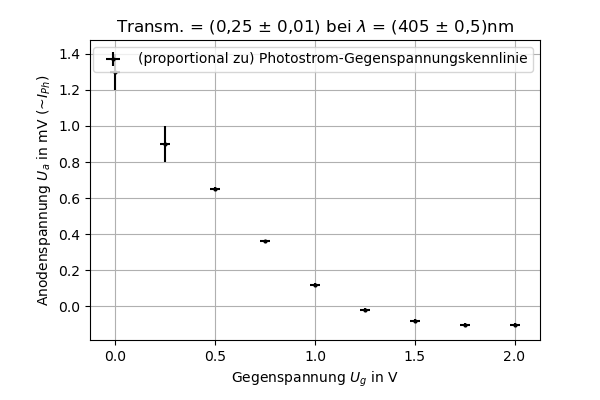
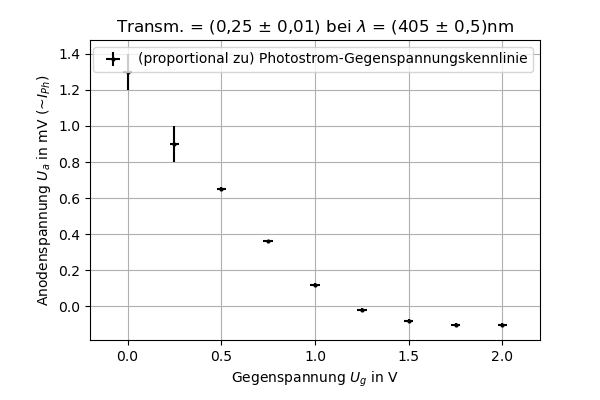
A1b

diff --git a/AP (Python)/AP3/A1b_A2,3_1.py b/AP (Python)/AP3/A1b_A2,3_1.py
@@ -3,8 +3,8 @@
 """ Bibliotheken importieren """
 import numpy as np
 from matplotlib import pyplot as plt
-# from scipy.optimize import curve_fit
-# from sympy import *
+from scipy.optimize import curve_fit
+import sympy as sp
 
 """ Daten auslesen """
 countFiles = 2
@@ -36,22 +36,6 @@ for i in range(countFiles):
         y_data.append(beamData[i][:,j])
         yerr.append(beamData[i][:,j+4])
 
-""" Regressionskurve """
-# def fitCurve(x, A, B):
-#     return A * np.asarray(x) + B
-
-# pFit, pCov = curve_fit(fitCurve, x_dataPos1, y_dataPos1, p0=[-1,4])
-# plt.plot(x_dataPos1, fitCurve(x_dataPos1, *pFit), label="Fitkurve durch kleinste Quadrate", color="Orange",linewidth=3)
-# perr = np.sqrt(np.diag(pCov))
-# print(perr)
-
-""" Regressionsfunktion """
-# x = Symbol('x')
-# A = pFit[0].round(4)
-# B = pFit[1].round(4)
-# fitCurve1 = A * x + B
-# print(fitCurve1)
-
 """ Plotten """
 fig = []
 ax = []
@@ -63,7 +47,9 @@ for i in range(len(y_data)):
     ax[i].grid(True)
     ax[i].set_xlabel("Gegenspannung $U_g$ in V")
     ax[i].set_ylabel("Anodenspannung $U_a$ in mV (~$I_{Ph}$)")
-    #ax[i].axis([2,8,4.5,7.6])
+    # ax[i].axis([0,1,2,3])
+    ax[i].set(xlim=(-0.2,2.2))
+    # ax[i].set(ylim=(-0.2,2.2))
    
 lambdas = [405,436,546,578]  
 for i in range(4):
@@ -72,6 +58,45 @@ for i in range(4):
 transms = ["0,05","0,1","0,25","0,5"]
 for i in range(4,8):
     ax[i].set_title("Transm. = (%s $\pm$ 0,01) bei $\lambda$ = (405 $\pm$ 0,5)nm"%transms[i-4])
+    
+""" Regressionskurve """
+lim = [6,5,3,3]
+x_data_limited = []
+for i in range(4):
+    x_data_limited.append(x_data[0][:lim[i]])
+y_data_limited = []
+for i in range(4):
+    y_data_limited.append(y_data[i][:lim[i]])
+    
+x_data_unlimited = np.arange(-1,3,0.01)
 
+def fitCurve(x, A, B):
+    return A * np.asarray(x) + B
+
+perr = []
+fitRes = []
+for i in range(4):
+    fitRes.append(curve_fit(fitCurve, x_data_limited[i], y_data_limited[i], p0=[-1,4]))
+    pFit = fitRes[i][0]
+    pCov = fitRes[i][1]
+    ax[i].plot(x_data_unlimited, fitCurve(x_data_unlimited, *pFit), label="Fitkurve durch kleinste Quadrate",linewidth=2)
+    ax[i].legend()
+    perr.append(np.sqrt(np.diag(pCov)))
+    print("Fitfehler",i+1,perr[i])
+
+""" Regressionsfunktion """
+x = sp.symbols('x')
+for i in range(4):
+    A = fitRes[i][0][0].round(4)
+    B = fitRes[i][0][1].round(4)
+    fitCurve = A * x + B
+    print("Regressionskurve %s: %s"%(i+1,fitCurve))
+    lambdified_fitCurve = sp.lambdify(x,fitCurve)
+    #Nulstellen:
+    print("Nullstellen %s: %s"%(i+1,np.roots(fitRes[i][0])))
+    maxFit = [fitRes[i][0][0]+perr[i][0],fitRes[i][0][1]-perr[i][1]]
+    print("Nullstellenfehler %s: %s"%(i+1,np.roots(maxFit)[0]-np.roots(fitRes[i][0])[0]))
+
+""" Plot speichern """
 for i in range(len(y_data)):
     fig[i].savefig("./Plots/%s_%s_plot.png"%(versuchsname,i+ersterDatenIndex), dpi=100) # Bild als png Datei in Ordner Plots gespeichert

diff --git a/AP (Python)/AP3/A1b_A2,3_2.py b/AP (Python)/AP3/A1b_A2,3_2.py
@@ -1,0 +1,83 @@
+# Marius Wenk, Fernando Grumpe
+
+""" Bibliotheken importieren """
+import numpy as np
+from matplotlib import pyplot as plt
+from scipy.optimize import curve_fit
+import sympy as sp
+
+""" Daten auslesen """
+countFiles = 1
+versuchsname = "A1b"
+ersterDatenIndex = 4
+file = []
+for i in range(countFiles):
+    i += ersterDatenIndex
+    file.append(open("%s_%s_data.csv"%(versuchsname,i), encoding="charmap"))
+beamData = []
+for i in range(countFiles):
+    beamData.append(np.loadtxt(file[i], delimiter=","))
+""" Konstanten """
+
+
+""" Daten vorbereiten """
+s = []
+x_data = []
+y_data = []
+xerr = []
+yerr = []
+for i in range(countFiles):
+    s.append(beamData[i][:,0].size)
+    x_data.append(beamData[i][:,0])
+    xerr.append(beamData[i][:,2])
+    y_data.append(beamData[i][:,1])
+    yerr.append(beamData[i][:,3])
+
+""" Plotten """
+fig = []
+ax = []
+for i in range(len(y_data)):
+    fig.append(plt.figure())
+    ax.append(fig[i].add_axes([0.15,0.15,0.75,0.75]))
+    ax[i].errorbar(x_data[i//4],y_data[i],yerr[i],xerr[i//4],label="",fmt='o',markersize=2,color="Black")
+    ax[i].legend()
+    ax[i].grid(True)
+    ax[i].set_xlabel("Frequenz $ny$ in 10^14 Hz")
+    ax[i].set_ylabel("$eU_0$ in eV")
+    # ax[i].axis([0,1,2,3])
+    ax[i].set(xlim=(0,8))
+    # ax[i].set(ylim=(-0.2,2.2))
+    
+""" Regressionskurve """ 
+x_data_unlimited = np.arange(-1,8,0.01)
+
+def fitCurve(x, A, B):
+    return A * np.asarray(x) + B
+
+perr = []
+fitRes = []
+for i in range(1):
+    fitRes.append(curve_fit(fitCurve, x_data[i], y_data[i], p0=[-1,4]))
+    pFit = fitRes[i][0]
+    pCov = fitRes[i][1]
+    ax[i].plot(x_data_unlimited, fitCurve(x_data_unlimited, *pFit), label="Fitkurve durch kleinste Quadrate",linewidth=2)
+    ax[i].legend()
+    perr.append(np.sqrt(np.diag(pCov)))
+    print("Fitfehler",i+1,perr[i])
+
+""" Regressionsfunktion """
+x = sp.symbols('x')
+for i in range(1):
+    A = fitRes[i][0][0].round(4)
+    B = fitRes[i][0][1].round(4)
+    fitCurve = A * x + B
+    print("Regressionskurve %s: %s"%(i+1,fitCurve))
+    lambdified_fitCurve = sp.lambdify(x,fitCurve)
+    #Nulstellen:
+    print("Nullstellen %s: %s"%(i+1,np.roots(fitRes[i][0])))
+    maxFit = [fitRes[i][0][0]+perr[i][0],fitRes[i][0][1]-perr[i][1]]
+    print("Nullstellenfehler %s: %s"%(i+1,np.roots(maxFit)[0]-np.roots(fitRes[i][0])[0]))
+
+""" Plot speichern """
+for i in range(len(y_data)):
+    fig[i].savefig("./Plots/%s_%s_plot.png"%(versuchsname,9), dpi=100) # Bild als png Datei in Ordner Plots gespeichert

diff --git a/AP (Python)/AP3/A1b_A2,3_zusammen.py b/AP (Python)/AP3/A1b_A2,3_zusammen.py
@@ -3,7 +3,7 @@
 """ Bibliotheken importieren """
 import numpy as np
 from matplotlib import pyplot as plt
-# from scipy.optimize import curve_fit
+from scipy.optimize import curve_fit
 # from sympy import *
 
 """ Daten auslesen """
@@ -37,22 +37,6 @@ for i in range(countFiles):
         y_data.append(beamData[i][:,j])
         yerr.append(beamData[i][:,j+4])
 
-""" Regressionskurve """
-# def fitCurve(x, A, B):
-#     return A * np.asarray(x) + B
-
-# pFit, pCov = curve_fit(fitCurve, x_dataPos1, y_dataPos1, p0=[-1,4])
-# plt.plot(x_dataPos1, fitCurve(x_dataPos1, *pFit), label="Fitkurve durch kleinste Quadrate", color="Orange",linewidth=3)
-# perr = np.sqrt(np.diag(pCov))
-# print(perr)
-
-""" Regressionsfunktion """
-# x = Symbol('x')
-# A = pFit[0].round(4)
-# B = pFit[1].round(4)
-# fitCurve1 = A * x + B
-# print(fitCurve1)
-
 """ Plotten """
 fig = []
 ax = []
@@ -72,6 +56,28 @@ for i in range(countFiles):
 
 ax[1].set_title("$\lambda$ = (405 $\pm$ 0,5)nm")
 
+""" Regressionskurve """
+# def fitCurve(x, A, B):
+#     return A * np.asarray(x) + B
+
+# fitRes = []
+# for i in range(4):
+#     fitRes.append(curve_fit(fitCurve, x_data[i], y_data[i], p0=[-1,4]))
+#     pFit = fitRes[i][0]
+#     pCov = fitRes[i][1]
+#     ax[i].plot(x_data[i], fitCurve(x_data[i], *pFit), label="Fitkurve durch kleinste Quadrate",linewidth=2)
+#     perr = np.sqrt(np.diag(pCov))
+#     print(pCov)
+#     print(perr)
+
+""" Regressionsfunktion """
+# x = Symbol('x')
+# A = pFit[0].round(4)
+# B = pFit[1].round(4)
+# fitCurve1 = A * x + B
+# print(fitCurve1)
+
+""" Plot speichern """
 for i in range(countFiles):
     fig[i].savefig("./Plots/%s_%s_zusammen_plot.png"%(versuchsname,i+ersterDatenIndex), dpi=100) # Bild als png Datei in Ordner Plots gespeichert
 

diff --git a/AP (Python)/AP3/A1b_A4.py b/AP (Python)/AP3/A1b_A4.py
@@ -65,10 +65,10 @@ for i in range(countFiles):
     ax[i].legend()
     ax[i].grid(True)
     ax[i].set_xlabel("Frequenz des Lichts in 10^14 Hz")
-    ax[i].set_ylabel("$h$ in 10^-34 J")
+    ax[i].set_ylabel("$h$ in 10^-34 Js")
     ax[i].axis([2,8,4.5,7.6])
     
 #ax[0].set_title("1-0-0 Ebene")
 
 for i in range(countFiles):
-    fig[i].savefig("./Plots/%s_%s_plot.png"%(versuchsname,9), dpi=100) # Bild als png Datei in Ordner Plots gespeichert
+    fig[i].savefig("./Plots/%s_%s_plot.png"%(versuchsname,10), dpi=100) # Bild als png Datei in Ordner Plots gespeichert
